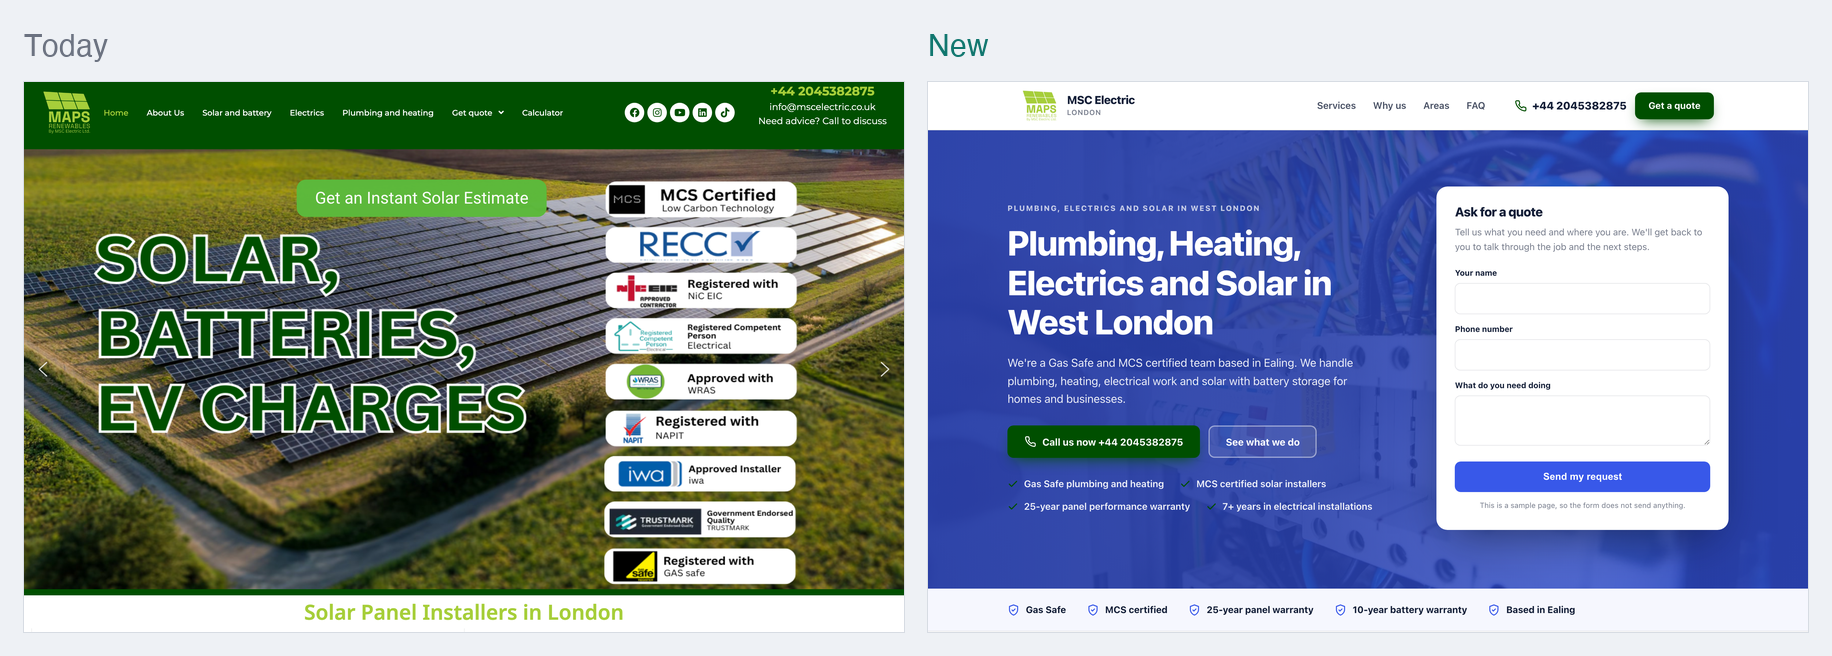
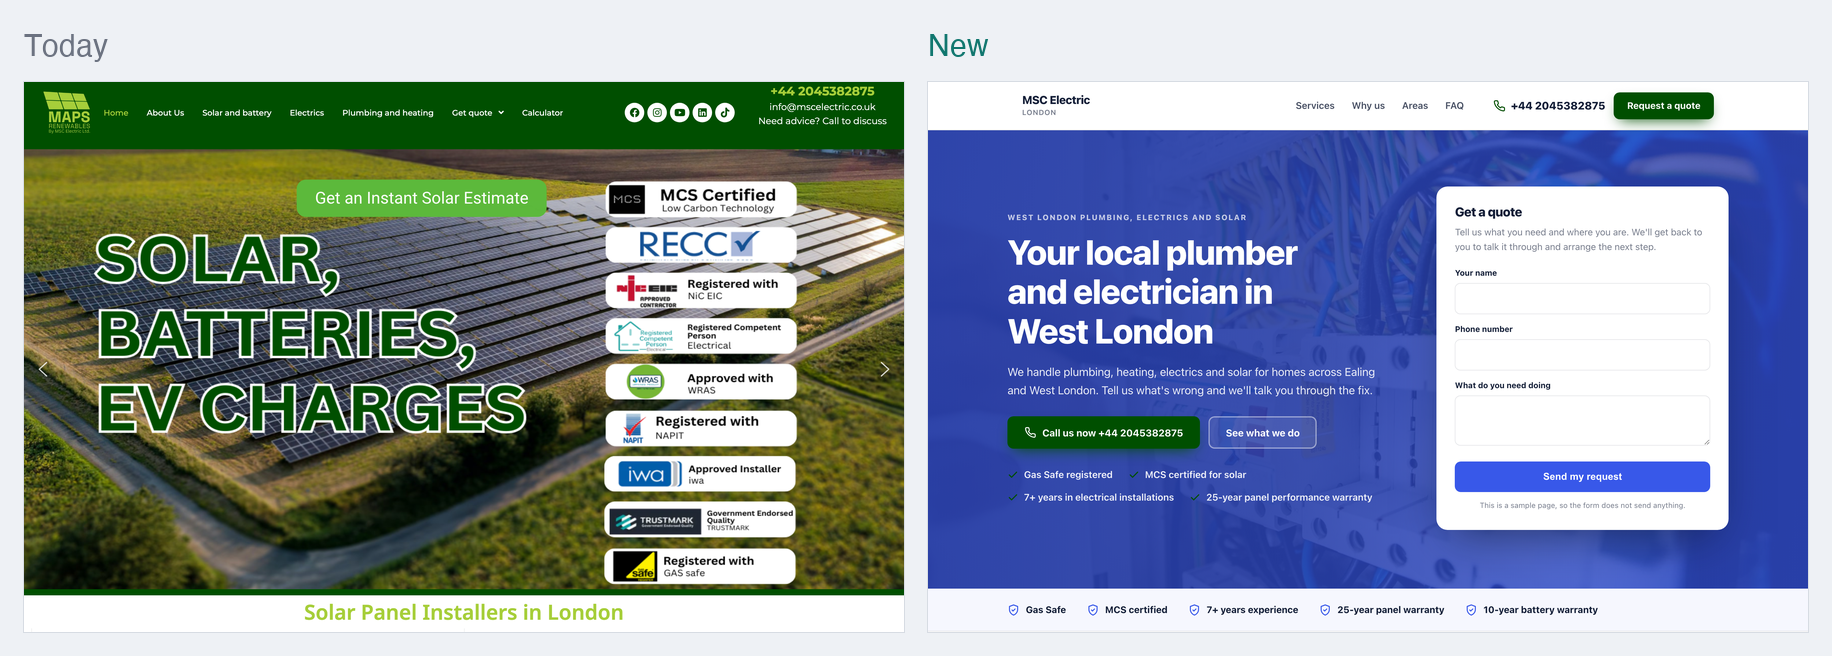
One page sample for MSC Electric

diff --git a/docs/0aaa0b5526/index.html b/docs/0aaa0b5526/index.html
@@ -4,14 +4,14 @@
 <meta charset="utf-8">
 <meta name="viewport" content="width=device-width, initial-scale=1">
 <meta name="robots" content="noindex,nofollow">
-<meta name="aso-build" content="c6348a3d7cfe">
-<title>Plumbing, Electrics &amp; Solar in West London | MSC Electric</title>
-<meta name="description" content="Gas Safe plumbing and heating, electrics, and MCS certified solar and battery installs across Ealing and West London. Get a quote from MSC Electric.">
+<meta name="aso-build" content="c5b6ac356a94">
+<title>Plumbing, Electrics and Solar in London | MSC Electric</title>
+<meta name="description" content="MSC Electric handles plumbing, heating, electrics and solar across Ealing and West London. Gas Safe registered and MCS certified.">
 <link rel="canonical" href="https://markygff.github.io/aso-mockups/0aaa0b5526/">
 <meta property="og:type" content="website">
 <meta property="og:site_name" content="MSC Electric">
-<meta property="og:title" content="Plumbing, Electrics &amp; Solar in West London | MSC Electric">
-<meta property="og:description" content="Gas Safe plumbing and heating, electrics, and MCS certified solar and battery installs across Ealing and West London. Get a quote from MSC Electric.">
+<meta property="og:title" content="Plumbing, Electrics and Solar in London | MSC Electric">
+<meta property="og:description" content="MSC Electric handles plumbing, heating, electrics and solar across Ealing and West London. Gas Safe registered and MCS certified.">
 <meta property="og:url" content="https://markygff.github.io/aso-mockups/0aaa0b5526/">
 <meta property="og:image" content="img/p09.jpg"><meta name="twitter:card" content="summary_large_image">
 <style>
@@ -268,7 +268,7 @@ p{margin:0}
 <header class="header">
   <div class="wrap header-in">
     <div class="brand">
-<img src="img/logo.png" alt="MSC Electric logo">      <div>
+      <div>
         <div class="brand-name">MSC Electric</div>
 <div class="brand-sub">London</div>      </div>
     </div>
@@ -281,7 +281,7 @@ p{margin:0}
       <a class="tel" href="tel:+442045382875">
         <svg viewBox="0 0 24 24" fill="none" stroke="currentColor" stroke-width="2" stroke-linecap="round" stroke-linejoin="round" aria-hidden="true"><path d="M22 16.9v3a2 2 0 0 1-2.2 2 19.8 19.8 0 0 1-8.6-3.1 19.5 19.5 0 0 1-6-6 19.8 19.8 0 0 1-3.1-8.7A2 2 0 0 1 4.1 2h3a2 2 0 0 1 2 1.7c.1 1 .4 1.9.7 2.8a2 2 0 0 1-.5 2.1L8.1 9.9a16 16 0 0 0 6 6l1.3-1.2a2 2 0 0 1 2.1-.5c.9.3 1.8.6 2.8.7a2 2 0 0 1 1.7 2z"/></svg><span>+44 2045382875</span>
       </a>
-      <a class="btn btn-accent" href="#quote">Get a quote</a>
+      <a class="btn btn-accent" href="#quote">Request a quote</a>
     </div>
   </div>
 </header>
@@ -290,19 +290,19 @@ p{margin:0}
   <div class="hero-bg"><img src="img/p09.jpg" alt="Electric services by maps renewables" width="1600" height="900"></div>
   <div class="wrap hero-in">
     <div>
-      <p class="eyebrow">Plumbing, electrics and solar in West London</p>
-      <h1>Plumbing, Heating, Electrics and Solar in West London</h1>
-      <p class="hero-sub">We&#39;re a Gas Safe and MCS certified team based in Ealing. We handle plumbing, heating, electrical work and solar with battery storage for homes and businesses.</p>
+      <p class="eyebrow">West London plumbing, electrics and solar</p>
+      <h1>Your local plumber and electrician in West London</h1>
+      <p class="hero-sub">We handle plumbing, heating, electrics and solar for homes across Ealing and West London. Tell us what&#39;s wrong and we&#39;ll talk you through the fix.</p>
       <div class="hero-actions">
         <a class="btn btn-accent" href="tel:+442045382875"><svg viewBox="0 0 24 24" fill="none" stroke="currentColor" stroke-width="2" stroke-linecap="round" stroke-linejoin="round" aria-hidden="true"><path d="M22 16.9v3a2 2 0 0 1-2.2 2 19.8 19.8 0 0 1-8.6-3.1 19.5 19.5 0 0 1-6-6 19.8 19.8 0 0 1-3.1-8.7A2 2 0 0 1 4.1 2h3a2 2 0 0 1 2 1.7c.1 1 .4 1.9.7 2.8a2 2 0 0 1-.5 2.1L8.1 9.9a16 16 0 0 0 6 6l1.3-1.2a2 2 0 0 1 2.1-.5c.9.3 1.8.6 2.8.7a2 2 0 0 1 1.7 2z"/></svg>Call us now +44 2045382875</a>
         <a class="btn btn-ghost" href="#services">See what we do</a>
       </div>
       <ul class="hero-bullets">
-<li><svg viewBox="0 0 24 24" fill="none" stroke="currentColor" stroke-width="2.4" stroke-linecap="round" stroke-linejoin="round" aria-hidden="true"><path d="M20 6 9 17l-5-5"/></svg><span>Gas Safe plumbing and heating</span></li><li><svg viewBox="0 0 24 24" fill="none" stroke="currentColor" stroke-width="2.4" stroke-linecap="round" stroke-linejoin="round" aria-hidden="true"><path d="M20 6 9 17l-5-5"/></svg><span>MCS certified solar installers</span></li><li><svg viewBox="0 0 24 24" fill="none" stroke="currentColor" stroke-width="2.4" stroke-linecap="round" stroke-linejoin="round" aria-hidden="true"><path d="M20 6 9 17l-5-5"/></svg><span>25-year panel performance warranty</span></li><li><svg viewBox="0 0 24 24" fill="none" stroke="currentColor" stroke-width="2.4" stroke-linecap="round" stroke-linejoin="round" aria-hidden="true"><path d="M20 6 9 17l-5-5"/></svg><span>7+ years in electrical installations</span></li>      </ul>
+<li><svg viewBox="0 0 24 24" fill="none" stroke="currentColor" stroke-width="2.4" stroke-linecap="round" stroke-linejoin="round" aria-hidden="true"><path d="M20 6 9 17l-5-5"/></svg><span>Gas Safe registered</span></li><li><svg viewBox="0 0 24 24" fill="none" stroke="currentColor" stroke-width="2.4" stroke-linecap="round" stroke-linejoin="round" aria-hidden="true"><path d="M20 6 9 17l-5-5"/></svg><span>MCS certified for solar</span></li><li><svg viewBox="0 0 24 24" fill="none" stroke="currentColor" stroke-width="2.4" stroke-linecap="round" stroke-linejoin="round" aria-hidden="true"><path d="M20 6 9 17l-5-5"/></svg><span>7+ years in electrical installations</span></li><li><svg viewBox="0 0 24 24" fill="none" stroke="currentColor" stroke-width="2.4" stroke-linecap="round" stroke-linejoin="round" aria-hidden="true"><path d="M20 6 9 17l-5-5"/></svg><span>25-year panel performance warranty</span></li>      </ul>
     </div>
     <div class="quote-card" id="quote">
-      <h3>Ask for a quote</h3>
-      <p class="lead">Tell us what you need and where you are. We&#39;ll get back to you to talk through the job and the next steps.</p>
+      <h3>Get a quote</h3>
+      <p class="lead">Tell us what you need and where you are. We&#39;ll get back to you to talk it through and arrange the next step.</p>
       <form action="#" onsubmit="return false" novalidate>
         <div class="field"><label for="h-name">Your name</label>
           <input id="h-name" name="name" type="text" autocomplete="name"></div>
@@ -321,9 +321,9 @@ p{margin:0}
   <div class="wrap trust-in">
     <div class="trust-item"><svg viewBox="0 0 24 24" fill="none" stroke="currentColor" stroke-width="2" stroke-linecap="round" stroke-linejoin="round" aria-hidden="true"><path d="M12 2 4 5v6c0 5 3.4 9.4 8 11 4.6-1.6 8-6 8-11V5z"/><path d="m9 12 2 2 4-4"/></svg><span>Gas Safe</span></div>
     <div class="trust-item"><svg viewBox="0 0 24 24" fill="none" stroke="currentColor" stroke-width="2" stroke-linecap="round" stroke-linejoin="round" aria-hidden="true"><path d="M12 2 4 5v6c0 5 3.4 9.4 8 11 4.6-1.6 8-6 8-11V5z"/><path d="m9 12 2 2 4-4"/></svg><span>MCS certified</span></div>
+    <div class="trust-item"><svg viewBox="0 0 24 24" fill="none" stroke="currentColor" stroke-width="2" stroke-linecap="round" stroke-linejoin="round" aria-hidden="true"><path d="M12 2 4 5v6c0 5 3.4 9.4 8 11 4.6-1.6 8-6 8-11V5z"/><path d="m9 12 2 2 4-4"/></svg><span>7+ years experience</span></div>
     <div class="trust-item"><svg viewBox="0 0 24 24" fill="none" stroke="currentColor" stroke-width="2" stroke-linecap="round" stroke-linejoin="round" aria-hidden="true"><path d="M12 2 4 5v6c0 5 3.4 9.4 8 11 4.6-1.6 8-6 8-11V5z"/><path d="m9 12 2 2 4-4"/></svg><span>25-year panel warranty</span></div>
     <div class="trust-item"><svg viewBox="0 0 24 24" fill="none" stroke="currentColor" stroke-width="2" stroke-linecap="round" stroke-linejoin="round" aria-hidden="true"><path d="M12 2 4 5v6c0 5 3.4 9.4 8 11 4.6-1.6 8-6 8-11V5z"/><path d="m9 12 2 2 4-4"/></svg><span>10-year battery warranty</span></div>
-    <div class="trust-item"><svg viewBox="0 0 24 24" fill="none" stroke="currentColor" stroke-width="2" stroke-linecap="round" stroke-linejoin="round" aria-hidden="true"><path d="M12 2 4 5v6c0 5 3.4 9.4 8 11 4.6-1.6 8-6 8-11V5z"/><path d="m9 12 2 2 4-4"/></svg><span>Based in Ealing</span></div>
   </div>
 </div>
 
@@ -331,40 +331,35 @@ p{margin:0}
   <div class="wrap">
     <div class="section-head">
       <p class="eyebrow">What we do</p>
-      <h2>Plumbing, heating, electrics and solar services</h2>
-      <p>One local team for the work that keeps your home running. Pick what you need below.</p>
+      <h2>Our plumbing, heating and electrical services</h2>
+      <p>One team covers your plumbing, heating, electrics and solar. You don&#39;t need three different firms.</p>
     </div>
     <div class="grid grid-3">
       <article class="card card-photo">
         <img src="img/p00.jpg" alt="slide 1" width="600" height="380" loading="lazy">
         <div class="card-body">
           <h3>Plumbing and heating</h3>
-          <p>Plumbing and heating work for your home, from a pipe that&#39;s giving trouble to a heating system that isn&#39;t keeping the house warm.</p>
+          <p>Plumbing repairs and heating work for your home, from a leaking pipe to a heating system that won&#39;t keep the house warm.</p>
         </div>
       </article>
       <article class="card card-photo">
         <img src="img/p03.jpg" alt="Solar services by maps renewables" width="600" height="380" loading="lazy">
         <div class="card-body">
           <h3>Plumbing and gas safe</h3>
-          <p>Gas work carried out by Gas Safe engineers. Book us when anything connected to your gas supply needs fitting or checking.</p>
+          <p>Gas work carried out under Gas Safe registration. You need this for any job that touches a gas supply or gas appliance.</p>
         </div>
       </article>
       <article class="card card-photo">
         <img src="img/p04.jpg" alt="Solar services by maps renewables" width="600" height="380" loading="lazy">
         <div class="card-body">
           <h3>Electrics</h3>
-          <p>Electrical installations and repairs done safely and properly, whether it&#39;s a fault in the house or a full new install.</p>
+          <p>Electrical installations and repairs for homes and businesses, done safely and finished properly.</p>
         </div>
       </article>
       <article class="card">
         <div class="icon"><svg viewBox="0 0 24 24" fill="none" stroke="currentColor" stroke-width="2" stroke-linecap="round" stroke-linejoin="round" aria-hidden="true"><path d="M4 20 15 9"/><path d="m14 4 6 6-3 3-6-6z"/><path d="m3 15 6 6"/></svg></div>
-        <h3>Solar Energy</h3>
-        <p>Solar panel systems designed and installed for homes and businesses, built around your roof and how much power you use.</p>
-      </article>
-      <article class="card">
-        <div class="icon"><svg viewBox="0 0 24 24" fill="none" stroke="currentColor" stroke-width="2" stroke-linecap="round" stroke-linejoin="round" aria-hidden="true"><path d="M12 3s5 4.2 5 9a5 5 0 0 1-10 0c0-1.8.8-3.2 1.6-4.2.3 1 1 1.9 1.9 2.3C11 8.4 10.7 5.6 12 3z"/></svg></div>
         <h3>Solar and battery</h3>
-        <p>Battery storage for new or existing solar panels. Store daytime power for the evening, with optional blackout protection to keep essentials running.</p>
+        <p>Solar panels designed and fitted for your roof, with battery storage so you can use daytime power in the evening.</p>
       </article>
     </div>
   </div>
@@ -374,35 +369,35 @@ p{margin:0}
   <div class="wrap">
     <div class="section-head">
       <p class="eyebrow">Why us</p>
-      <h2>Why people in West London choose us</h2>
+      <h2>Why West London homeowners use us</h2>
     </div>
     <div class="grid grid-2">
       <div class="why-item">
         <div class="why-badge">1</div>
         <div>
-          <h3>Gas Safe and MCS certified</h3>
-          <p>Your gas work is done by Gas Safe engineers and your solar install is done to MCS standards.</p>
+          <h3>Properly registered</h3>
+          <p>We&#39;re Gas Safe registered for gas work and MCS certified for solar installations.</p>
         </div>
       </div>
       <div class="why-item">
         <div class="why-badge">2</div>
+        <div>
+          <h3>7+ years experience</h3>
+          <p>Our team has over seven years of experience in electrical installations across London.</p>
+        </div>
+      </div>
+      <div class="why-item">
+        <div class="why-badge">3</div>
         <div>
           <h3>Long warranties</h3>
           <p>Solar panels come with a 25-year performance warranty. Batteries come with a 10-year warranty.</p>
         </div>
       </div>
       <div class="why-item">
-        <div class="why-badge">3</div>
-        <div>
-          <h3>7+ years of experience</h3>
-          <p>Our team has more than seven years of hands-on knowledge in electrical installations.</p>
-        </div>
-      </div>
-      <div class="why-item">
         <div class="why-badge">4</div>
         <div>
-          <h3>One team for the whole house</h3>
-          <p>Plumbing, heating, electrics and solar from one local firm, so you aren&#39;t juggling different trades.</p>
+          <h3>One firm for the lot</h3>
+          <p>Plumbing, heating, electrics and solar all handled by the same team, so you&#39;ve one number to call.</p>
         </div>
       </div>
     </div>
@@ -414,8 +409,8 @@ p{margin:0}
   <div class="wrap">
     <div class="section-head">
       <p class="eyebrow">Where we work</p>
-      <h2>Plumbers, electricians and solar installers in West London</h2>
-      <p>We&#39;re based in Ealing and work across West London, the rest of London and the South East.</p>
+      <h2>Where we work in Ealing and West London</h2>
+      <p>We&#39;re based in Ealing and work across West London and the wider London area. We also take on work in the South East.</p>
     </div>
     <ul class="area-list">
 <li>Ealing</li><li>West London</li><li>London</li><li>South East</li>    </ul>
@@ -429,24 +424,24 @@ p{margin:0}
       <h2>Common questions</h2>
     </div>
     <div class="faq-item">
-      <h3><span>Q.</span>Are you Gas Safe registered for gas and heating work?</h3>
-      <p>Yes. Gas Safe is one of our accreditations, and our plumbing and gas safe service covers gas work in your home.</p>
+      <h3><span>Q.</span>Are you Gas Safe registered for gas and heating work in London?</h3>
+      <p>Yes. Our gas and heating work is carried out under Gas Safe registration, which is the legal requirement for anyone working on gas appliances in the UK.</p>
     </div>
     <div class="faq-item">
-      <h3><span>Q.</span>Are you MCS certified solar panel installers in London?</h3>
-      <p>Yes, we&#39;re MCS certified. We design and install solar panel systems for homes and businesses across Ealing, West London and the wider London area.</p>
+      <h3><span>Q.</span>Which areas of London do you cover?</h3>
+      <p>We&#39;re based in Ealing and cover West London and the wider London area. We also work across the South East.</p>
     </div>
     <div class="faq-item">
-      <h3><span>Q.</span>What areas do you cover?</h3>
-      <p>We&#39;re based in Ealing and work across West London, London and the South East.</p>
+      <h3><span>Q.</span>How do I get a quote for plumbing, electrics or solar?</h3>
+      <p>Fill in the quote form on this page with what you need. We&#39;ll get back to you to talk through the job. For solar, our free instant calculator gives you an estimated saving and payback period in seconds.</p>
     </div>
     <div class="faq-item">
       <h3><span>Q.</span>What warranty comes with solar panels and batteries?</h3>
-      <p>Our solar panels come with a 25-year warranty on panel performance. Battery storage systems come with a 10-year warranty covering efficiency and longevity.</p>
+      <p>Our solar panels come with a 25-year warranty on panel performance. Battery storage systems come with a 10-year warranty.</p>
     </div>
     <div class="faq-item">
-      <h3><span>Q.</span>Can I add a battery to my existing solar panels?</h3>
-      <p>Yes. Our battery storage systems work with new and existing solar panel installations. You can also add optional blackout protection to keep essential appliances running in a power cut.</p>
+      <h3><span>Q.</span>Can you add a battery to solar panels I already have?</h3>
+      <p>Yes. Our battery storage systems work with new and existing solar installations. Optional blackout protection keeps essential appliances running during a power cut.</p>
     </div>
   </div>
 </section>
@@ -455,8 +450,8 @@ p{margin:0}
   <div class="wrap contact-in">
     <div>
       <p class="eyebrow">Get in touch</p>
-      <h2 style="font-size:clamp(1.75rem,3.2vw,2.4rem);margin-bottom:14px">Ask for a quote</h2>
-      <p style="color:var(--muted);font-size:1.06rem">Tell us what you need and where you are. We&#39;ll get back to you to talk through the job and the next steps.</p>
+      <h2 style="font-size:clamp(1.75rem,3.2vw,2.4rem);margin-bottom:14px">Get a quote</h2>
+      <p style="color:var(--muted);font-size:1.06rem">Tell us what you need and where you are. We&#39;ll get back to you to talk it through and arrange the next step.</p>
       <div class="contact-facts">
         <div class="fact-row"><svg viewBox="0 0 24 24" fill="none" stroke="currentColor" stroke-width="2" stroke-linecap="round" stroke-linejoin="round" aria-hidden="true"><path d="M22 16.9v3a2 2 0 0 1-2.2 2 19.8 19.8 0 0 1-8.6-3.1 19.5 19.5 0 0 1-6-6 19.8 19.8 0 0 1-3.1-8.7A2 2 0 0 1 4.1 2h3a2 2 0 0 1 2 1.7c.1 1 .4 1.9.7 2.8a2 2 0 0 1-.5 2.1L8.1 9.9a16 16 0 0 0 6 6l1.3-1.2a2 2 0 0 1 2.1-.5c.9.3 1.8.6 2.8.7a2 2 0 0 1 1.7 2z"/></svg><div><strong>Phone</strong>
           <a href="tel:+442045382875">+44 2045382875</a></div></div>
@@ -478,7 +473,7 @@ p{margin:0}
           <input id="c-email" name="email" type="email" autocomplete="email"></div>
         <div class="field"><label for="c-service">What do you need</label>
           <select id="c-service" name="service">
-<option>Plumbing and heating</option><option>Plumbing and gas safe</option><option>Electrics</option><option>Solar Energy</option><option>Solar and battery</option>            <option>Something else</option>
+<option>Plumbing and heating</option><option>Plumbing and gas safe</option><option>Electrics</option><option>Solar and battery</option>            <option>Something else</option>
           </select></div>
         <div class="field"><label for="c-msg">Tell us about the job</label>
           <textarea id="c-msg" name="message"></textarea></div>
@@ -495,11 +490,11 @@ p{margin:0}
     <div class="footer-in">
       <div>
         <div class="footer-brand">MSC Electric</div>
-        <p>Plumbing, heating, electrics and solar with battery storage across Ealing and West London.</p>
+        <p>MSC Electric handles plumbing, heating, electrics and solar across Ealing and West London.</p>
 <p style="margin-top:14px"><a href="tel:+442045382875">+44 2045382875</a></p>      </div>
       <div>
         <h4>Services</h4>
-        <ul><li>Plumbing and heating</li><li>Plumbing and gas safe</li><li>Electrics</li><li>Solar Energy</li><li>Solar and battery</li></ul>
+        <ul><li>Plumbing and heating</li><li>Plumbing and gas safe</li><li>Electrics</li><li>Solar and battery</li></ul>
       </div>
       <div>
         <h4>Areas</h4>
@@ -519,7 +514,7 @@ p{margin:0}
     "@type": "Plumber",
     "name": "MSC Electric",
     "url": "https://markygff.github.io/aso-mockups/0aaa0b5526/",
-    "description": "Gas Safe plumbing and heating, electrics, and MCS certified solar and battery installs across Ealing and West London. Get a quote from MSC Electric.",
+    "description": "MSC Electric handles plumbing, heating, electrics and solar across Ealing and West London. Gas Safe registered and MCS certified.",
     "telephone": "+44 2045382875",
     "email": "info@mscelectric.co.uk",
     "address": {
@@ -573,13 +568,6 @@ p{margin:0}
         "@type": "Offer",
         "itemOffered": {
           "@type": "Service",
-          "name": "Solar Energy"
-        }
-      },
-      {
-        "@type": "Offer",
-        "itemOffered": {
-          "@type": "Service",
           "name": "Solar and battery"
         }
       }
@@ -591,26 +579,26 @@ p{margin:0}
     "mainEntity": [
       {
         "@type": "Question",
-        "name": "Are you Gas Safe registered for gas and heating work?",
+        "name": "Are you Gas Safe registered for gas and heating work in London?",
         "acceptedAnswer": {
           "@type": "Answer",
-          "text": "Yes. Gas Safe is one of our accreditations, and our plumbing and gas safe service covers gas work in your home."
+          "text": "Yes. Our gas and heating work is carried out under Gas Safe registration, which is the legal requirement for anyone working on gas appliances in the UK."
         }
       },
       {
         "@type": "Question",
-        "name": "Are you MCS certified solar panel installers in London?",
+        "name": "Which areas of London do you cover?",
         "acceptedAnswer": {
           "@type": "Answer",
-          "text": "Yes, we're MCS certified. We design and install solar panel systems for homes and businesses across Ealing, West London and the wider London area."
+          "text": "We're based in Ealing and cover West London and the wider London area. We also work across the South East."
         }
       },
       {
         "@type": "Question",
-        "name": "What areas do you cover?",
+        "name": "How do I get a quote for plumbing, electrics or solar?",
         "acceptedAnswer": {
           "@type": "Answer",
-          "text": "We're based in Ealing and work across West London, London and the South East."
+          "text": "Fill in the quote form on this page with what you need. We'll get back to you to talk through the job. For solar, our free instant calculator gives you an estimated saving and payback period in seconds."
         }
       },
       {
@@ -618,15 +606,15 @@ p{margin:0}
         "name": "What warranty comes with solar panels and batteries?",
         "acceptedAnswer": {
           "@type": "Answer",
-          "text": "Our solar panels come with a 25-year warranty on panel performance. Battery storage systems come with a 10-year warranty covering efficiency and longevity."
+          "text": "Our solar panels come with a 25-year warranty on panel performance. Battery storage systems come with a 10-year warranty."
         }
       },
       {
         "@type": "Question",
-        "name": "Can I add a battery to my existing solar panels?",
+        "name": "Can you add a battery to solar panels I already have?",
         "acceptedAnswer": {
           "@type": "Answer",
-          "text": "Yes. Our battery storage systems work with new and existing solar panel installations. You can also add optional blackout protection to keep essential appliances running in a power cut."
+          "text": "Yes. Our battery storage systems work with new and existing solar installations. Optional blackout protection keeps essential appliances running during a power cut."
         }
       }
     ]
